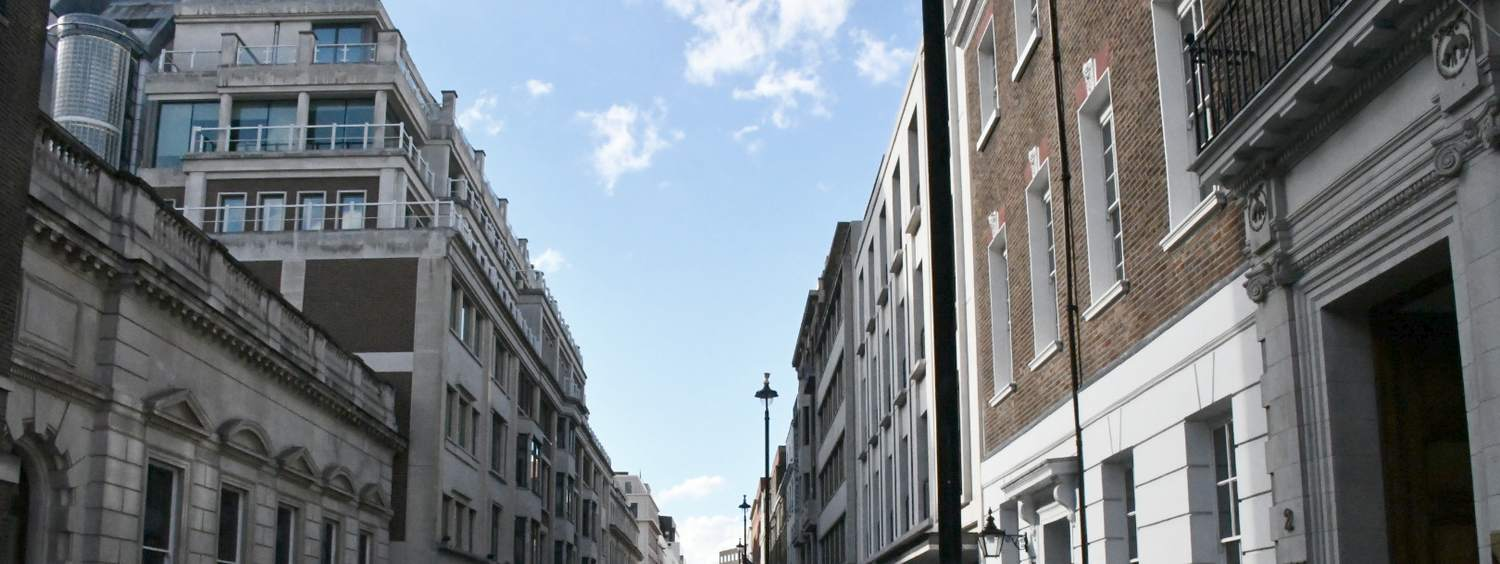
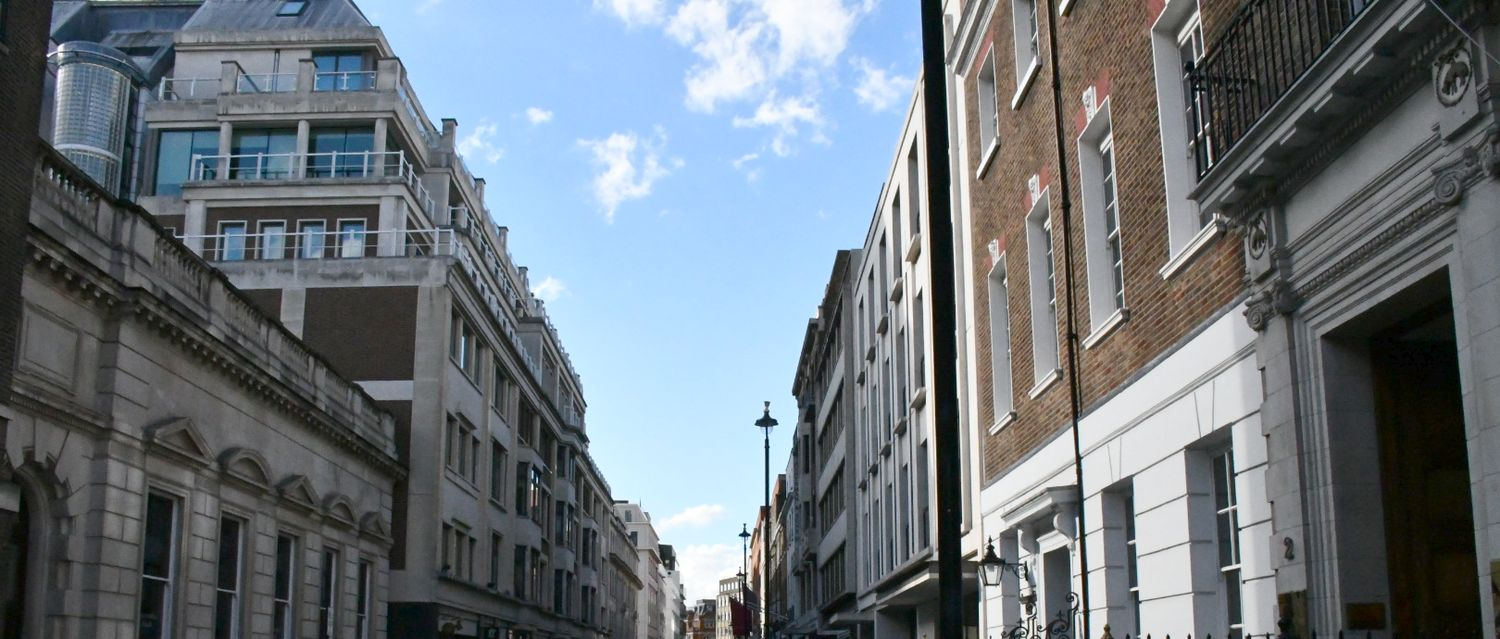
「法人営業として」の後ろの街並み写真を、スマホでも建物が見える置き方に変更

diff --git a/index.html b/index.html
@@ -129,7 +129,6 @@
   </section>
 
   <section class="section has-deco" aria-labelledby="h-maker">
-    <div class="deco deco--street" aria-hidden="true"></div>
     <div class="wrap">
       <div class="split">
         <div class="section__head">
@@ -138,8 +137,11 @@
         <div class="section__body maker__text">
           <h3 class="h3">元テレビ番組スタッフとして</h3>
           <p>テレビ番組の制作現場で、企画・構成・編集を担当してきました。限られた時間のなかで、何を、どの順番で見せるかを決める仕事です。ホームページでも、お店のことを伺い、伝える順番を組み立て、読みやすい形に整えます。</p>
-          <h3 class="h3 maker__sub">法人営業として</h3>
-          <p>いまは会社員として、法人営業をしています。相手の話を聞き、課題を整理して、提案する仕事です。ご依頼の内容を伺ったうえで、「このお店なら、こう見せてはどうでしょう」というご提案もします。ご相談から公開まで、窓口はひとりです。</p>
+          <div class="maker__block">
+            <div class="deco deco--street" aria-hidden="true"></div>
+            <h3 class="h3 maker__sub">法人営業として</h3>
+            <p>いまは会社員として、法人営業をしています。相手の話を聞き、課題を整理して、提案する仕事です。ご依頼の内容を伺ったうえで、「このお店なら、こう見せてはどうでしょう」というご提案もします。ご相談から公開まで、窓口はひとりです。</p>
+          </div>
           <h3 class="h3 maker__sub">AIの使い方</h3>
           <p>ホームページ制作には、AIも使います。下調べや下書きにかかる時間が短くなるぶん、価格を抑えています。仕上げは、人の目と手で行います。</p>
           <p>映像編集には、AIを使っていません。すべて手作業で編集しています。</p>

diff --git a/assets/css/style.css b/assets/css/style.css
@@ -283,7 +283,7 @@ a { color: inherit; }
 .section { position: relative; padding-block: var(--section); }
 
 /* 薄く敷く写真。上下をぼかして、前後の区切りとつなげる */
-.has-deco { isolation: isolate; }
+.has-deco { isolation: isolate; overflow-x: clip; }
 .deco {
   position: absolute; z-index: -1; inset: 0; opacity: .17;
   background-position: center; background-size: cover; background-repeat: no-repeat;
@@ -360,6 +360,19 @@ main::before {
 
 .maker__text { display: grid; gap: .9em; max-width: 36em; }
 .maker__sub { margin-top: 1.4em; }
+
+/* 「法人営業として」の後ろに敷く街並み。
+   スマホでは、この段落の後ろに画面幅いっぱいの帯として置く（縦長の欄全体に敷くと、空しか見えなくなるため）。
+   900px以上では、これまでどおり欄全体に敷く。 */
+.maker__block { position: relative; display: grid; gap: .9em; }
+.maker__block > .deco {
+  inset: -104px auto -104px calc(var(--gutter) * -1); width: 100vw;
+  background-position: 40% 50%;
+}
+@media (min-width: 900px) {
+  .maker__block { position: static; }
+  .maker__block > .deco { inset: 0; width: auto; background-position: center; }
+}
 
 .name__intro { margin-top: 18px; max-width: 36em; }
 .meanings { margin-top: 34px; display: grid; gap: 0; border-top: 1px solid var(--line-strong); }
